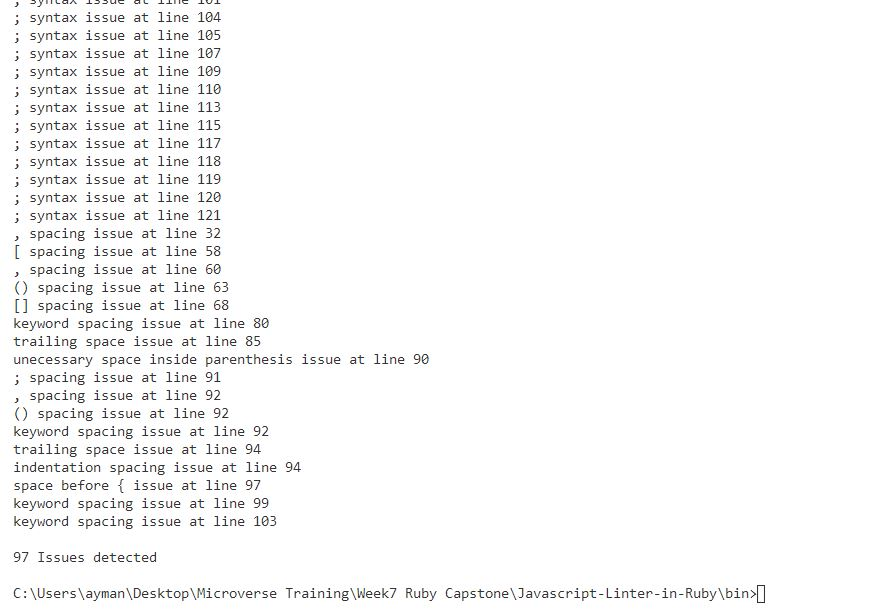
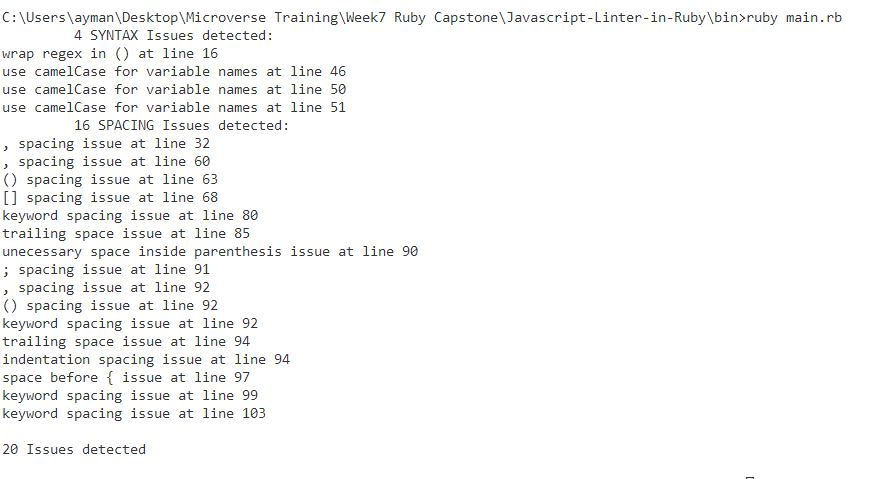
fix ruby issues

Changed region(s): [[0.0, 0.0, 0.9566, 0.8768], [0.0, 0.9061, 0.864, 1.0]]

diff --git a/bin/main.rb b/bin/main.rb
@@ -6,7 +6,7 @@ issue = Issue.new
 spacing = Spacing.new
 syntax = Syntax.new
 
-entire_file = File.read('../javascriptTests/block-spacing.js')
+entire_file = File.read('./mainTest.js')
 
 line_by_line = entire_file.split("\n")
 
